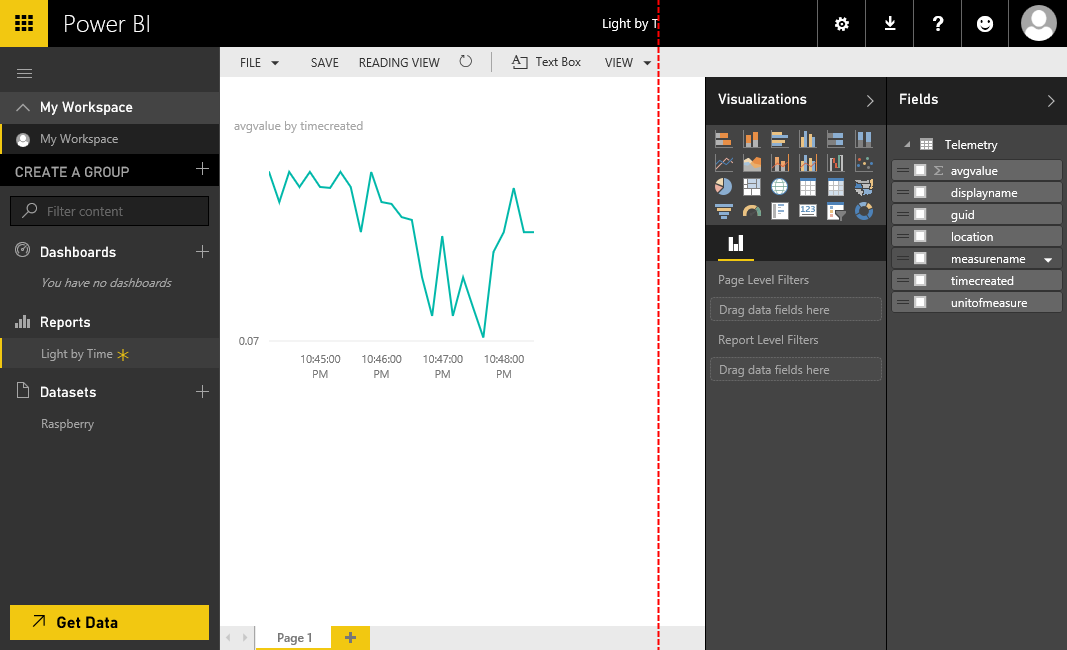
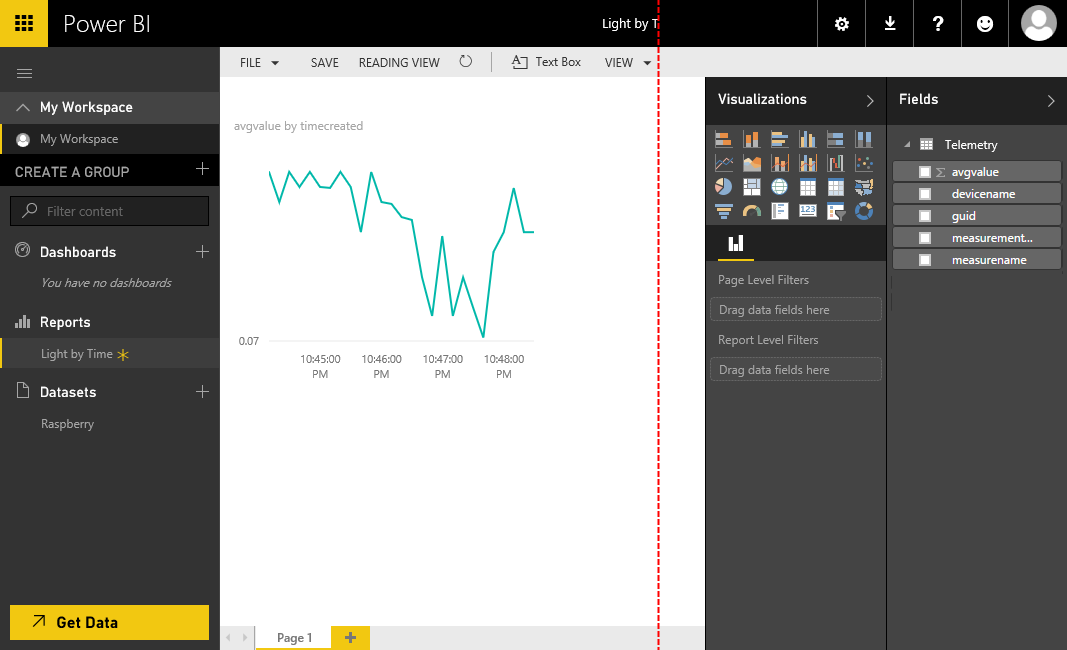
ew

Changed region(s): [[0.8351, 0.2462, 1.0, 0.4923]]

diff --git a/README.md b/README.md
@@ -29,12 +29,6 @@ The following is required to complete this module:
 [3]: http://go.microsoft.com/fwlink/?LinkID=691134
 [7]: https://github.com/Azure/azure-iot-sdks/blob/master/tools/DeviceExplorer/doc/how_to_use_device_explorer.md
 
-<a name="Setup"></a>
-### Setup ###
-In order to run the exercises in this module, you'll need to set up your environment first.
-
-1. Open the end solution from Module 2 and open the Azure IoT hub created.
-
 
 ---
 
@@ -58,7 +52,7 @@ In this exercise, you'll again send telemetry data (light level) to Azure IoT Hu
 
 In this task, you'll return to the created IoT Hub.
 
-1. Considering you completed the previous modules, you are now able to send data to the Azure IoT hub. In case this is not done, review the lab of Module 2, where you set up the Azure IoT hub and register your device.
+Considering you completed the previous modules, you are now able to send data to the Azure IoT hub. In case this is not done, review the lab of Module 2, where you set up the Azure IoT hub and register your device. Take a note of the connection string of the iothubowner in the shared access policy settings of the IoT hub.  
 
 <a name="Ex1Task2"></a>
 #### Task 2 - Sending telemetry data to the Azure IoT hub ####
@@ -66,6 +60,8 @@ In this task, you'll return to the created IoT Hub.
 Now you'll again send telemetry data to the Azure IoT Hub.
 
 1. Open in Visual Studio the **xxxxxx.sln** solution located at **/xxxxx** folder.
+
+1. In case you have not done this, enter the connection string of the registred device in **MainPage.xaml.cs**. This information can be retrieved in **Device explorer**
 
 1. Press **F5** to run and debug the application.
 
@@ -240,7 +236,7 @@ After some minutes of the job running, you'll see that the dataset that you conf
 1. To create the _Average Light by time_ report, select the following fields:
 
 	- avgvalue
-	- timecreated
+	- measurementTime
 
 	As you can see the **avgvalue** field is automatically set to the **Value** field and the **timecreated** is inserted as an axis. Now change the chart type to a **Line Chart**:
 
@@ -248,7 +244,7 @@ After some minutes of the job running, you'll see that the dataset that you conf
 
 	_Selecting the Line Chart_
 
-1. To create a filter to show only the Light sensor data, drag the **measurename** field to the **Filters** section, and then select the **Light** value:
+1. To create a filter to show only the Light sensor data, drag the **devicename** field to the **Filters** section, and then select the **Photocell** value:
 
 	![Select Report Filter](Images/select-report-filter.png?raw=true "Select Report Filter")
 	![Select Light sensor values](Images/select-light-sensor-values.png?raw=true "Select Light sensor values")
@@ -280,5 +276,10 @@ In this task, you'll create a new Dashboard, and pin the _Light by Time_ report 
 
 By completing this module, you should have:
 
-- Used **Stream Analytics** to process data in near-realtime and spool data to **Blob Storage** and **Power BI**.
+- Used **Stream Analytics** to process data in near-realtime and spool data to **Power BI**.
 - Created a **Power BI** reports and dashboards with graphs to visualize the telemetry data.
+
+<a name="Optional"></a>
+## Optional ##
+
+Try using other data of the other sensors and visualize this in PowerBI. 
